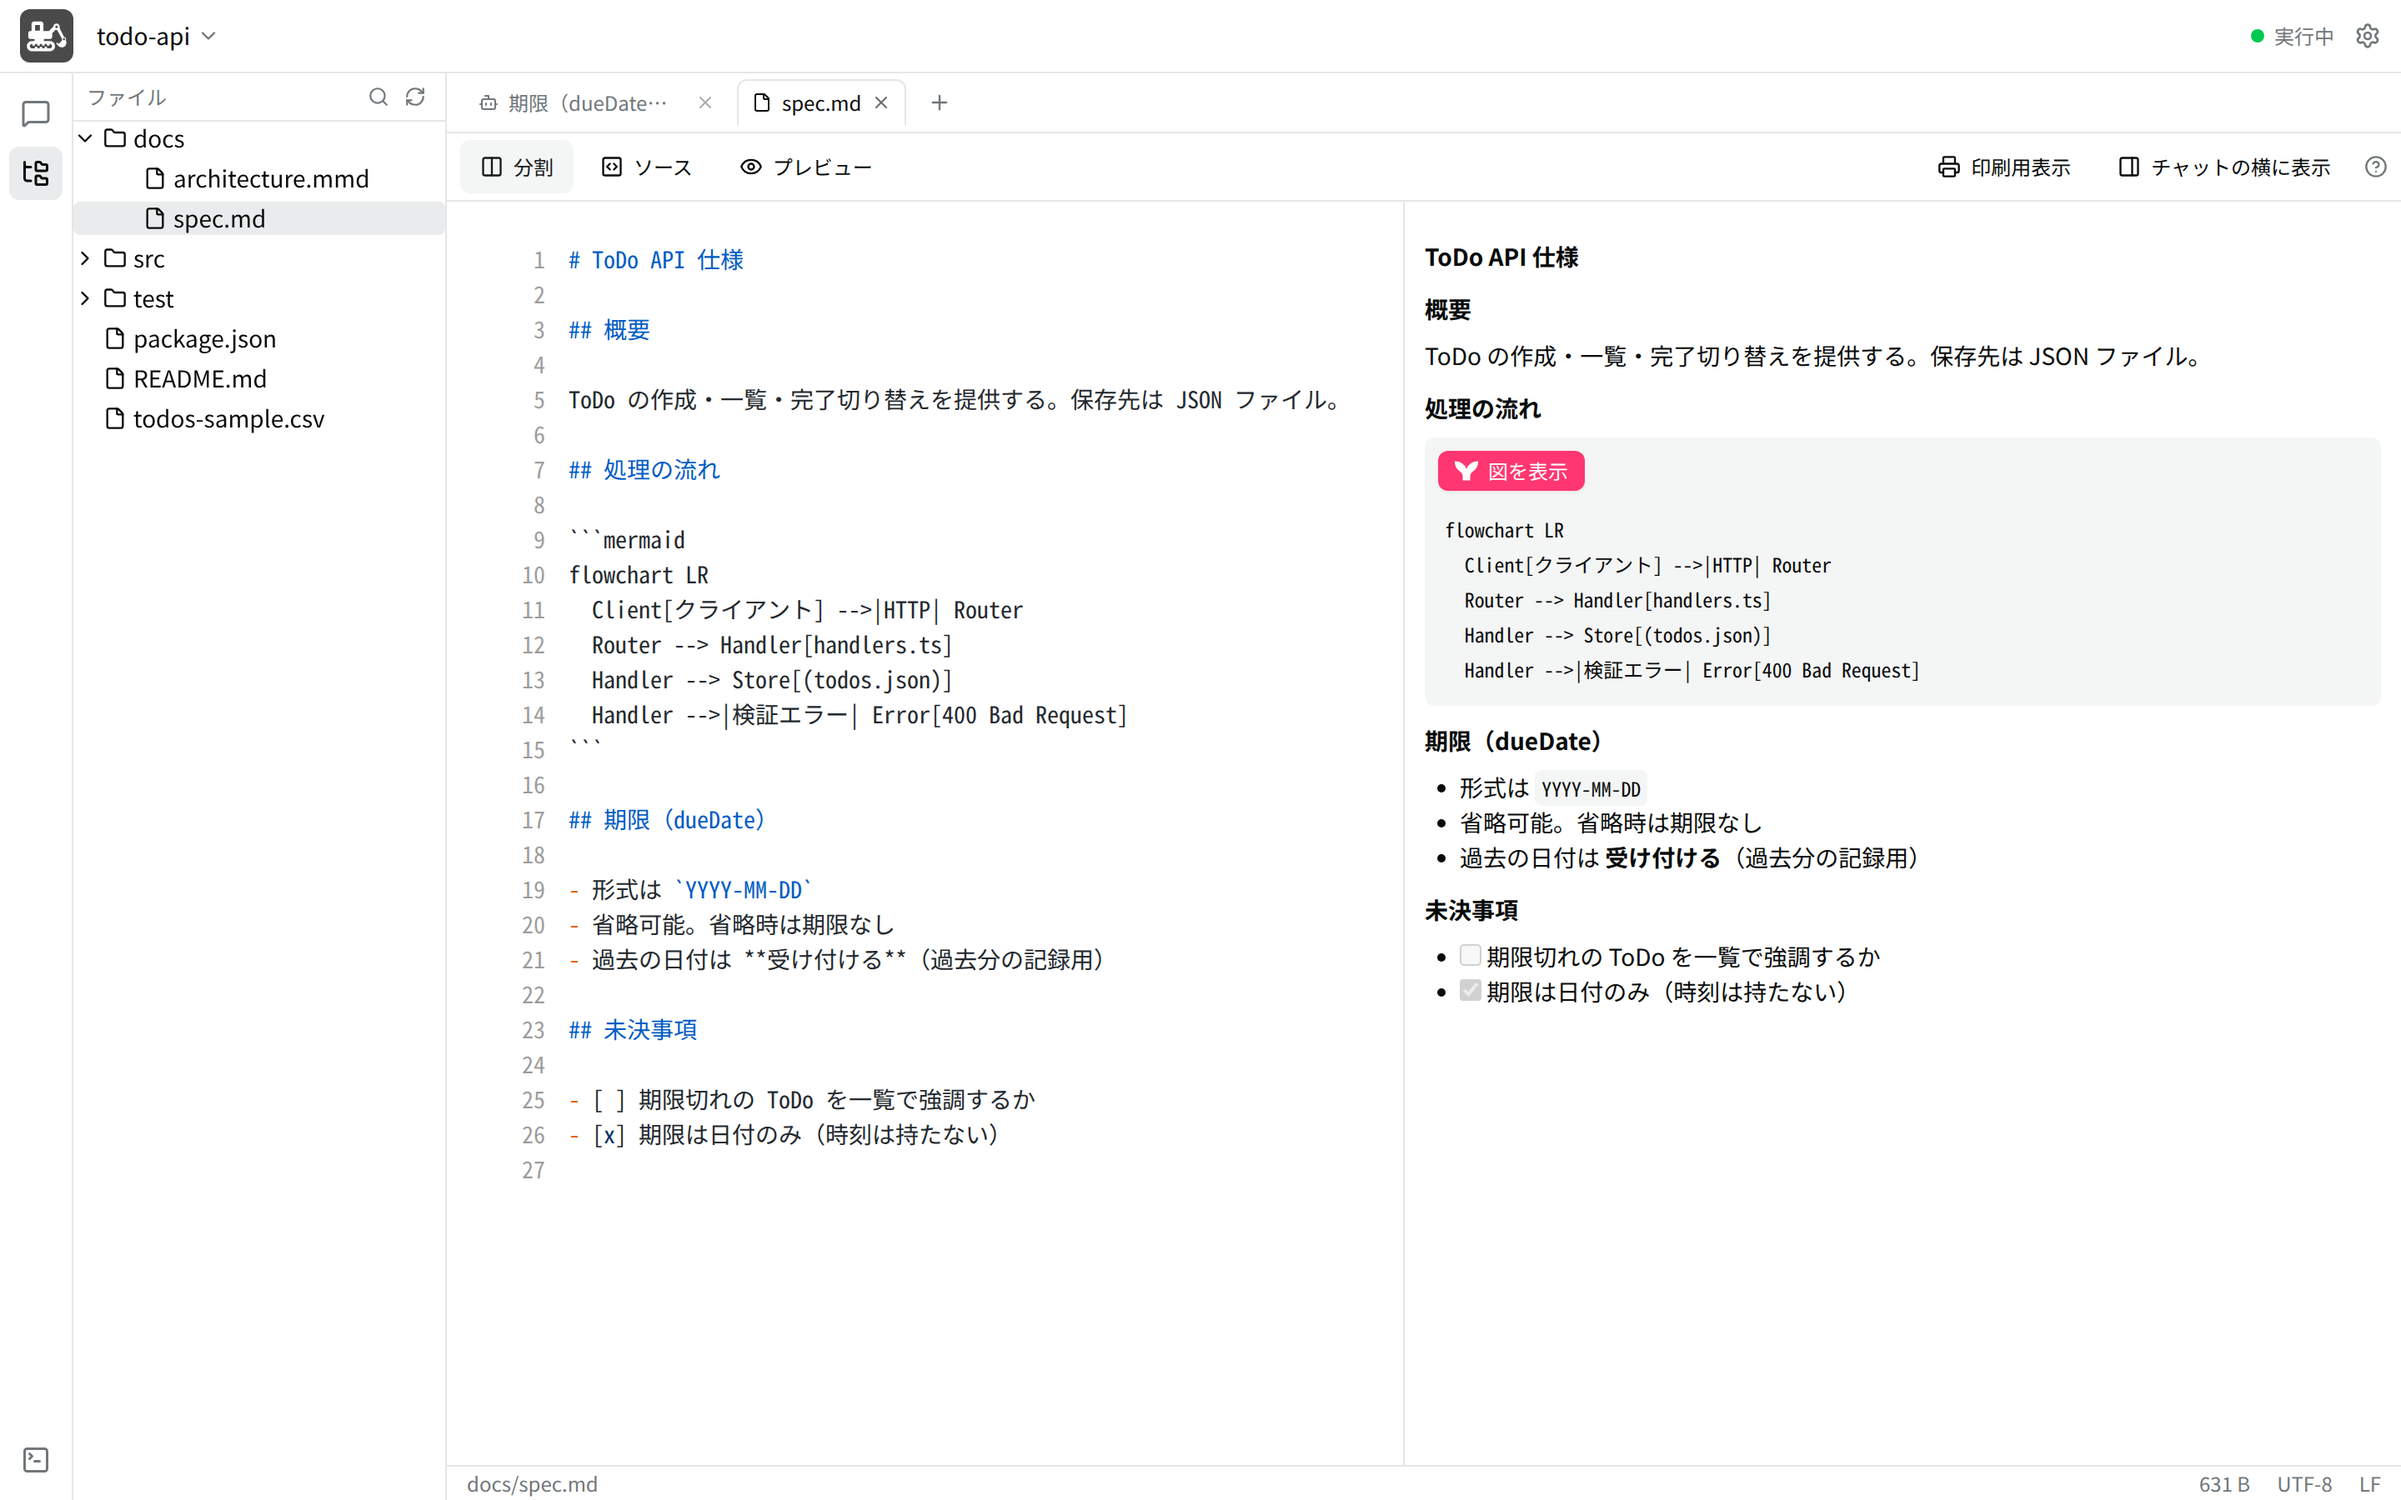
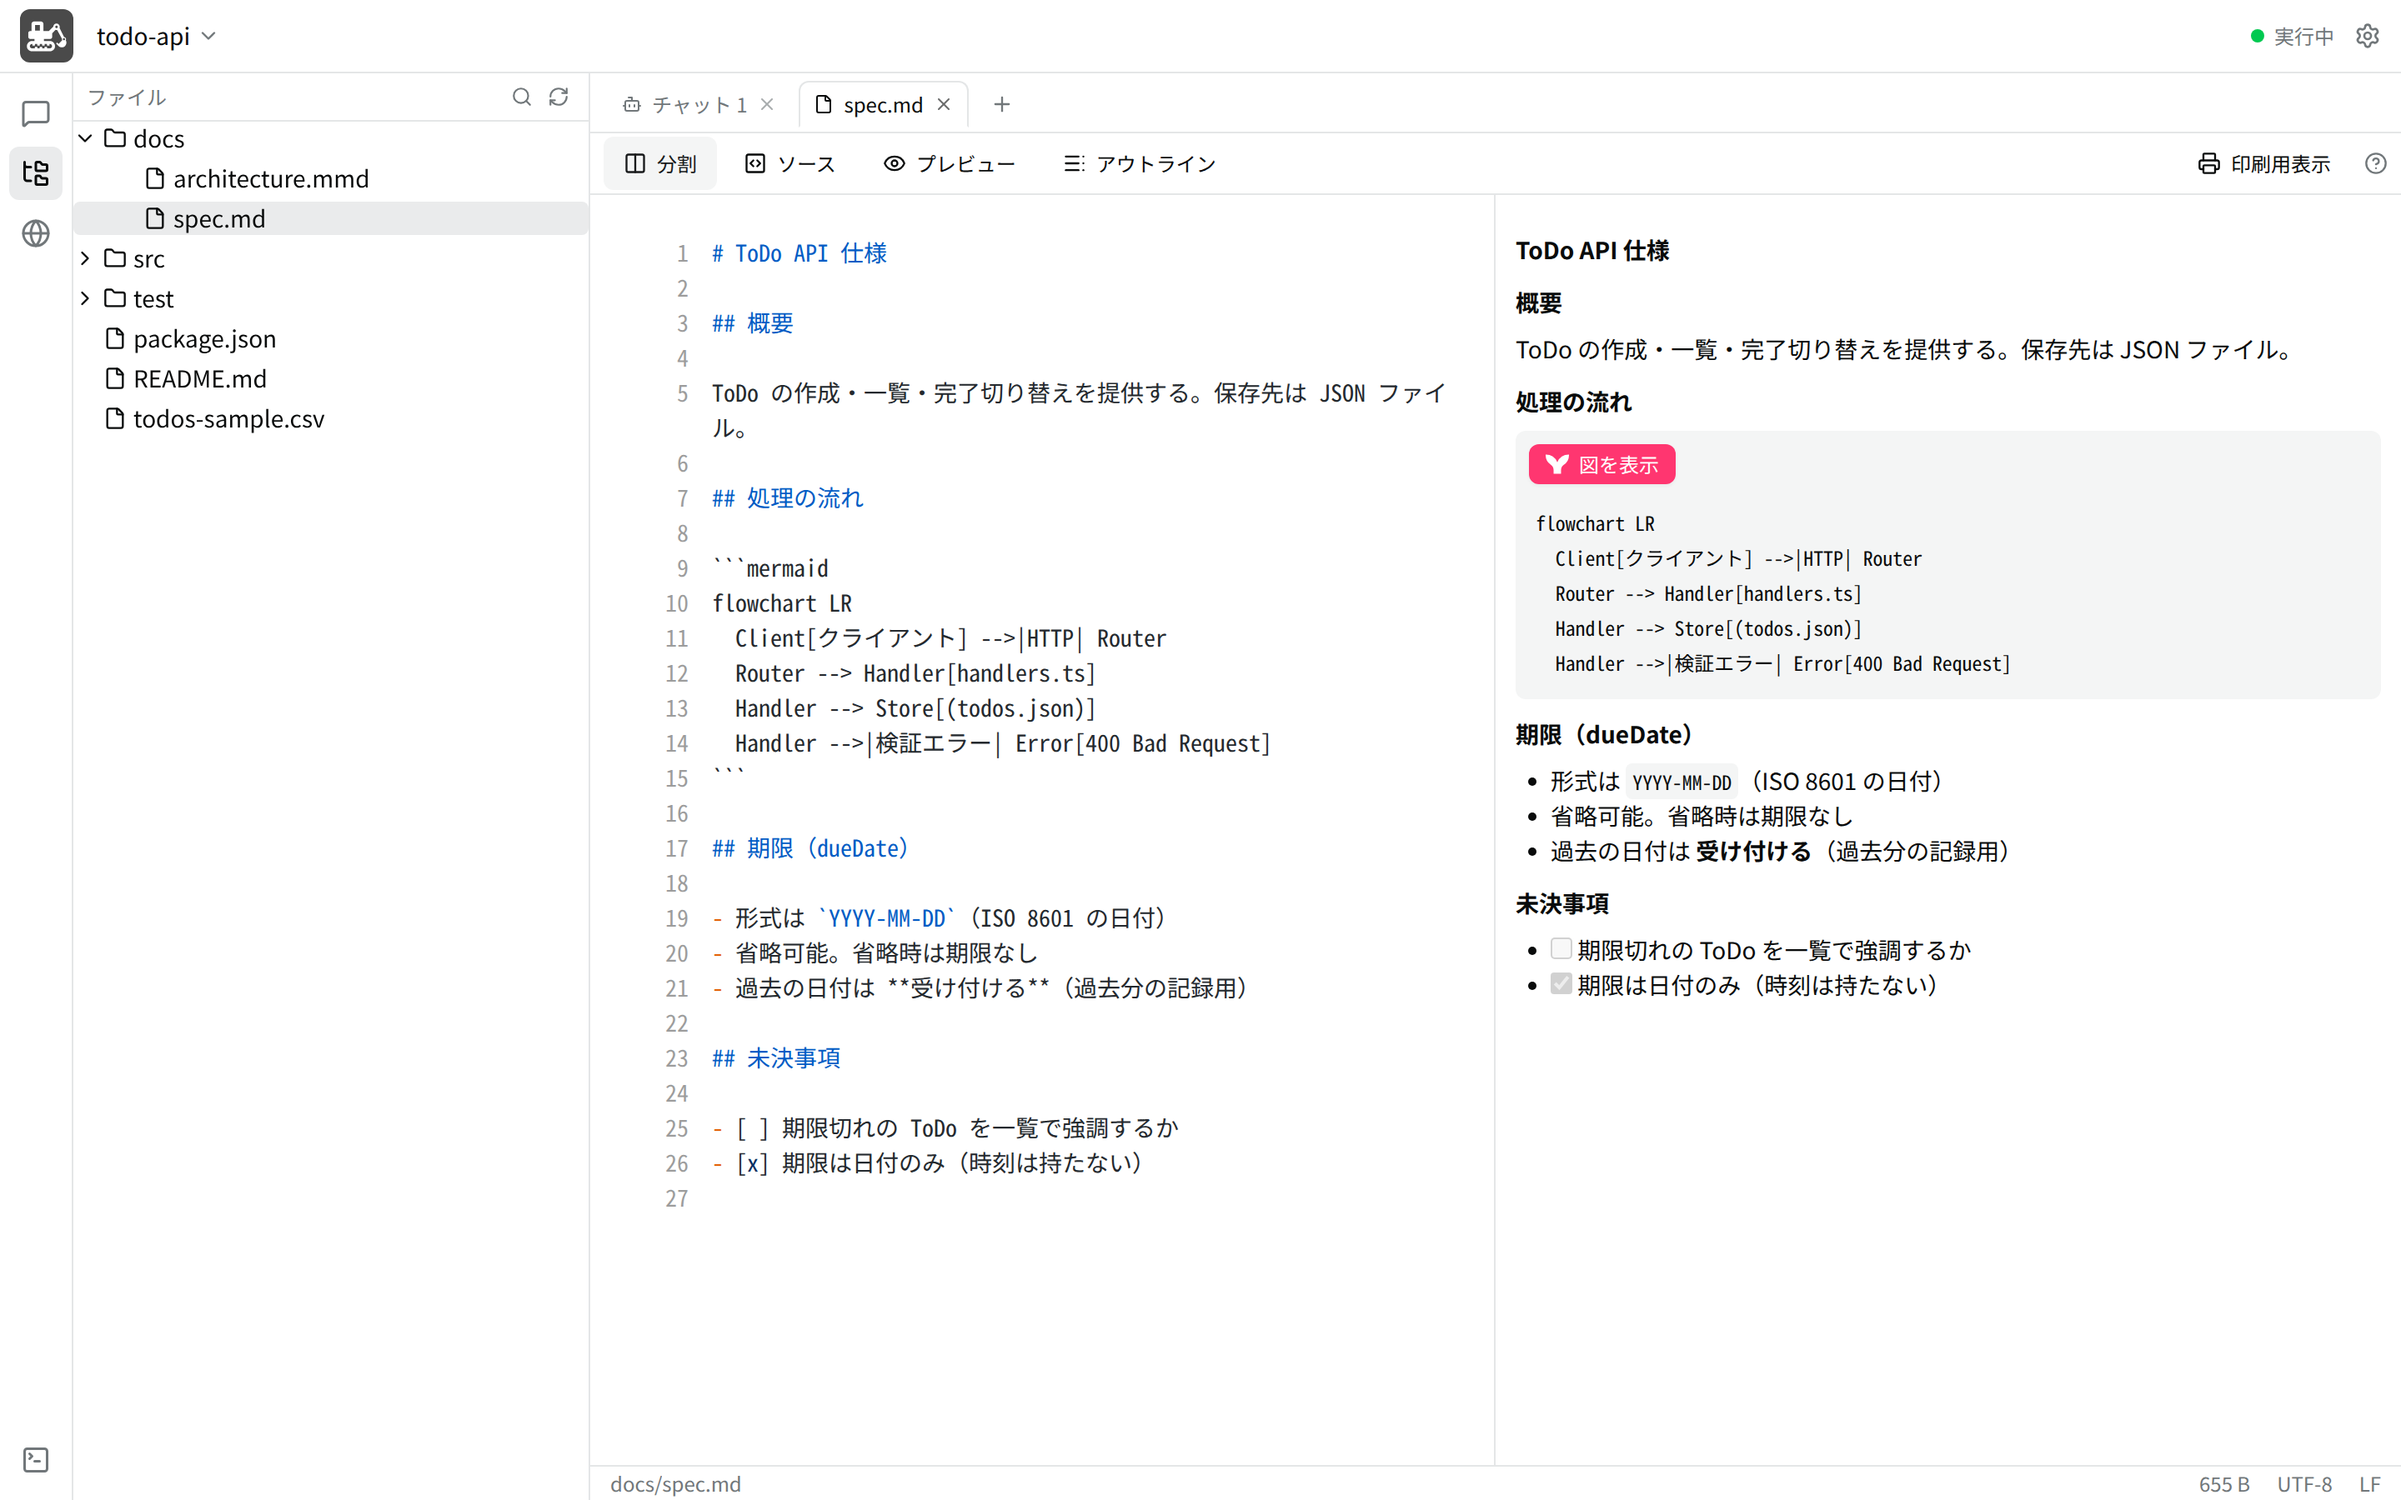
**Update documentation to include split view and in-app browser features**
- Added detailed descriptions of the split-view functionality, supporting up to 4 panes for organized multitasking.
- Documented the new in-app browser feature with project-specific bookmarks and shared login states.
- Included corresponding screenshots (`07-split-view.png`, `08-browser.png`) to enhance clarity.
- Updated README to summarize these features with links to the full documentation.

diff --git a/README.md b/README.md
@@ -9,9 +9,19 @@ Docker Sandboxes の中で動く AI エージェントを、ACP（Agent Client P
 * プロジェクトに関係なく AI と壁打ちできる
 * コードの編集権限がない人でも、AI との対話でコードや仕様を理解できる
 
-主な機能は [docs/FEATURES.md](./docs/FEATURES.md) を参照。
-
 設計は [docs/design/](./docs/design/) を参照。
+
+## 主な機能
+
+* [プロジェクト一覧](./docs/FEATURES.md#プロジェクト一覧) — 1 プロジェクト = 1 サンドボックス。作成・状態の確認・診断
+* [チャット](./docs/FEATURES.md#チャット) — サンドボックス内のエージェントと ACP で対話。最大 10 タブ、履歴からの再開
+* [差分の表示](./docs/FEATURES.md#差分の表示) — エージェントが編集したファイルの変更を左右／1 列で確認
+* [ファイラーとエディタ](./docs/FEATURES.md#ファイラーとエディタ) — ファイルの操作・検索、Markdown・Mermaid などの編集とプレビュー
+* [分割ビュー](./docs/FEATURES.md#分割ビュー) — タブの領域を左右に最大 4 つのペインに分割
+* [ブラウザ](./docs/FEATURES.md#ブラウザ) — アプリ内のブラウザのタブ。ブックマークはプロジェクトごと
+* [権限の確認とテーマ](./docs/FEATURES.md#権限の確認とテーマ) — 操作ごとの許可カード、ライト／ダークテーマ
+
+詳しくはスクリーンショット付きの [docs/FEATURES.md](./docs/FEATURES.md) を参照。
 
 ## 採用技術
 
